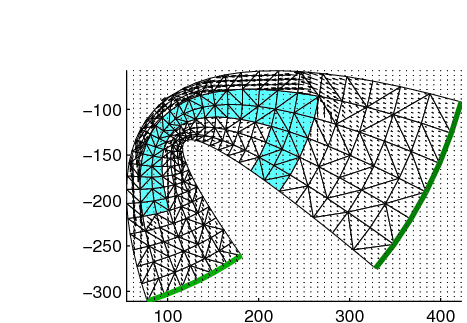
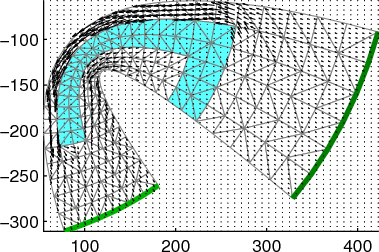
fix pictures
git-svn-id: svn://svn.code.sf.net/p/eidors3d/code/trunk@3634 82006732-fb7e-4a22-9f28-86a212cce563

diff --git a/htdocs/tutorial/strange_effects/conformal1_03.m b/htdocs/tutorial/strange_effects/conformal1_03.m
@@ -2,24 +2,26 @@
 
 nodes = img.fwd_model.nodes; mn = min(nodes); mx= max(nodes);
 img.fwd_model.mdl_slice_mapper.x_pts = linspace(mn(1),mx(1),50);
-img.fwd_model.mdl_slice_mapper.y_pts = linspace(mn(2),mx(2),10);
+img.fwd_model.mdl_slice_mapper.y_pts = linspace(mn(2),mx(2),15);
 img.calc_colours.clim = 5;
 
-show_fem(img); axis image;
+hh=show_fem(img); axis image;
+set(hh,'EdgeColor',[0.5,0.5,0.5]);
 hold on;
 show_current( img); 
 hold off;
 
-print_convert conformal1_03a.png '-density 125'
+print_convert conformal1_03a.png '-density 150'
 
 nodes = img2.fwd_model.nodes; mn = min(nodes); mx= max(nodes);
 img2.fwd_model.mdl_slice_mapper.x_pts = linspace(mn(1),mx(1),50);
 img2.fwd_model.mdl_slice_mapper.y_pts = linspace(mn(2),mx(2),50);
 img2.calc_colours.clim = 5;
 
-show_fem(img2); axis image;
+hh= show_fem(img2); axis image;
+set(hh,'EdgeColor',[0.5,0.5,0.5]);
 hold on;
 show_current( img2); 
 hold off;
 
-print_convert conformal1_03a.png '-density 125'
+print_convert conformal1_03b.png '-density 125'
